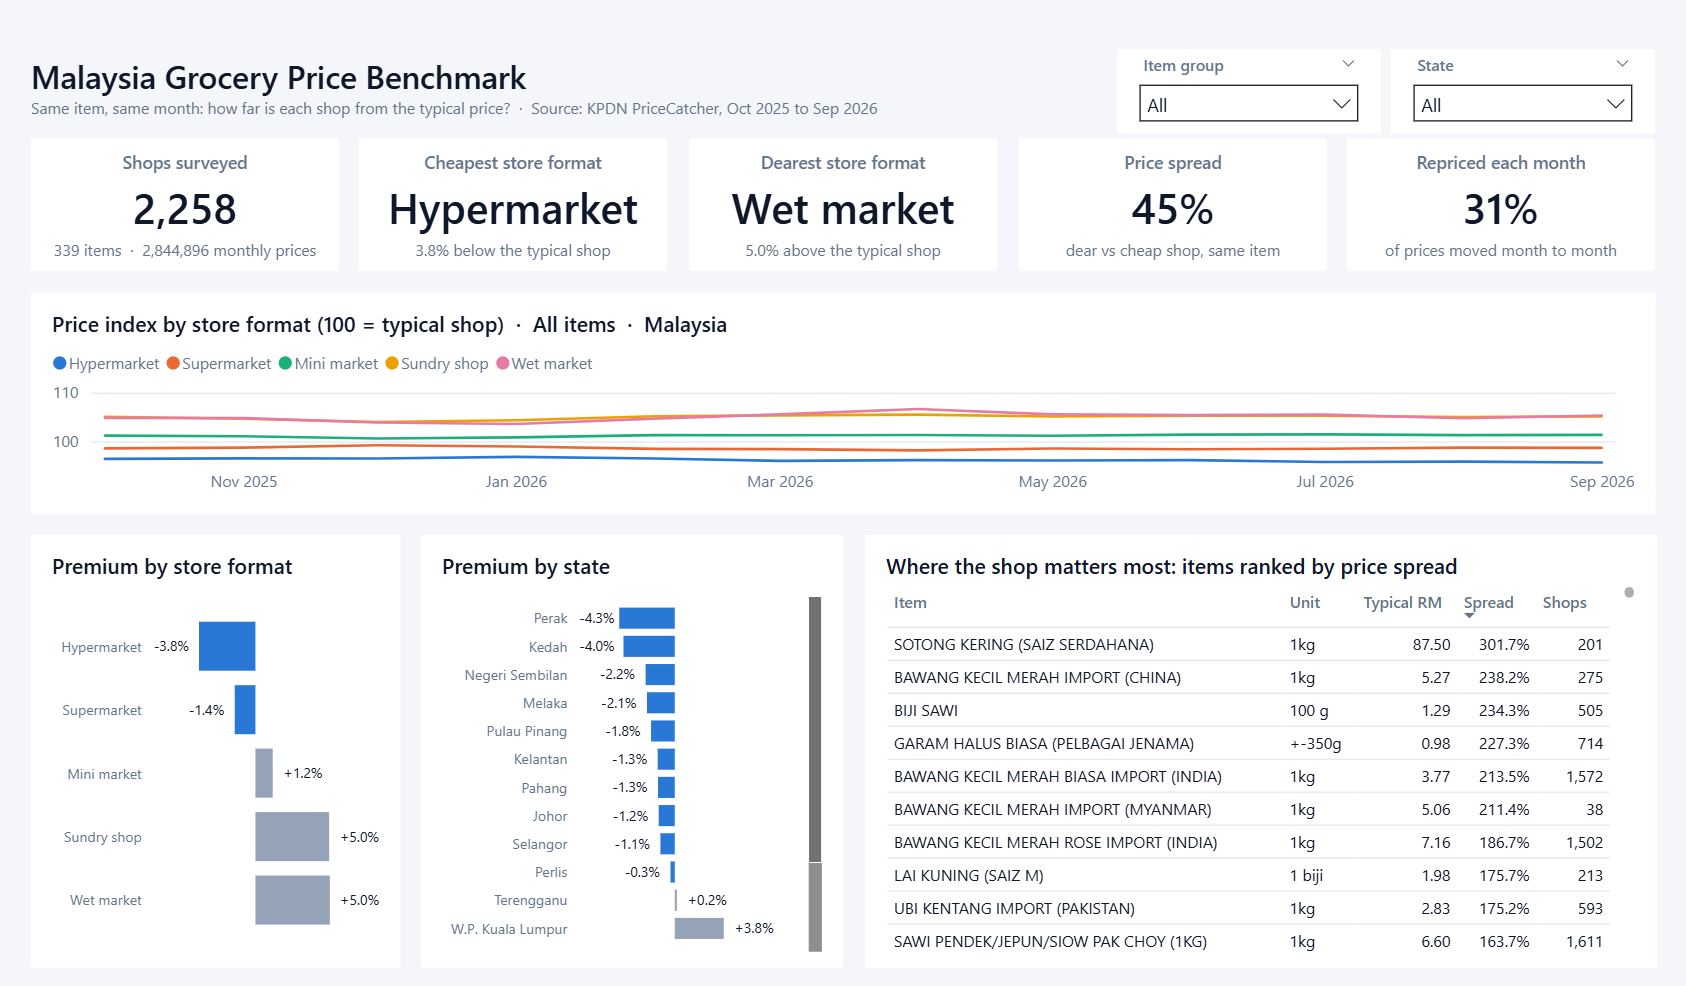
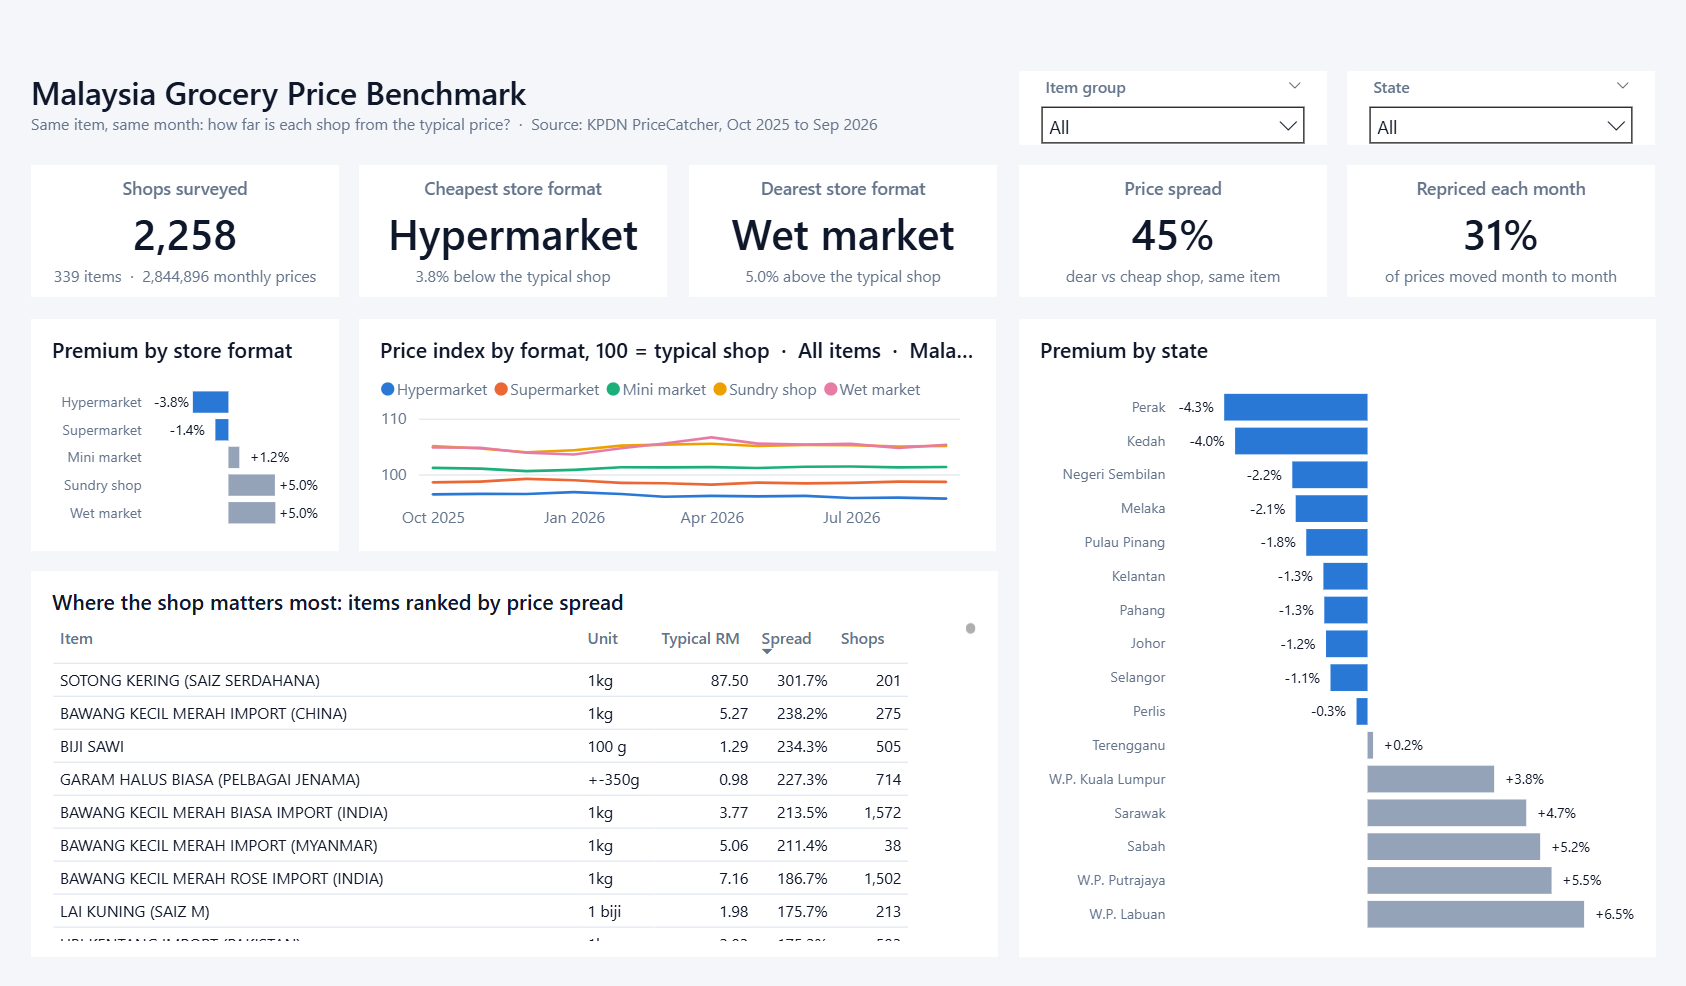
Align report to a five-column grid and add alt text
State chart now spans two rows so all 16 states show without scrolling.

diff --git a/README.md b/README.md
@@ -122,8 +122,9 @@ reads the parquet files in the folder named by the `ProcessedFolder` parameter; 
 project lives somewhere else on your machine, change it under **Transform data > Edit
 parameters**.
 
-- **Three tiers on one page:** five KPI tiles, the monthly index by format, then ranked
-  bars and the item table for detail.
+- **Three tiers on one page:** five KPI tiles, then the format and state comparisons with
+  the monthly index, then the item table for detail. Every visual sits on one five-column
+  grid with 24 px margins and 16 px gaps, and carries alt text.
 - **33 DAX measures** in display folders: base counts, benchmark (index, premium, P90/P10
   spread), repricing, format ranking, card text and dynamic titles.
 - **Slicers** for item group and state. The benchmark stays national when a state is
